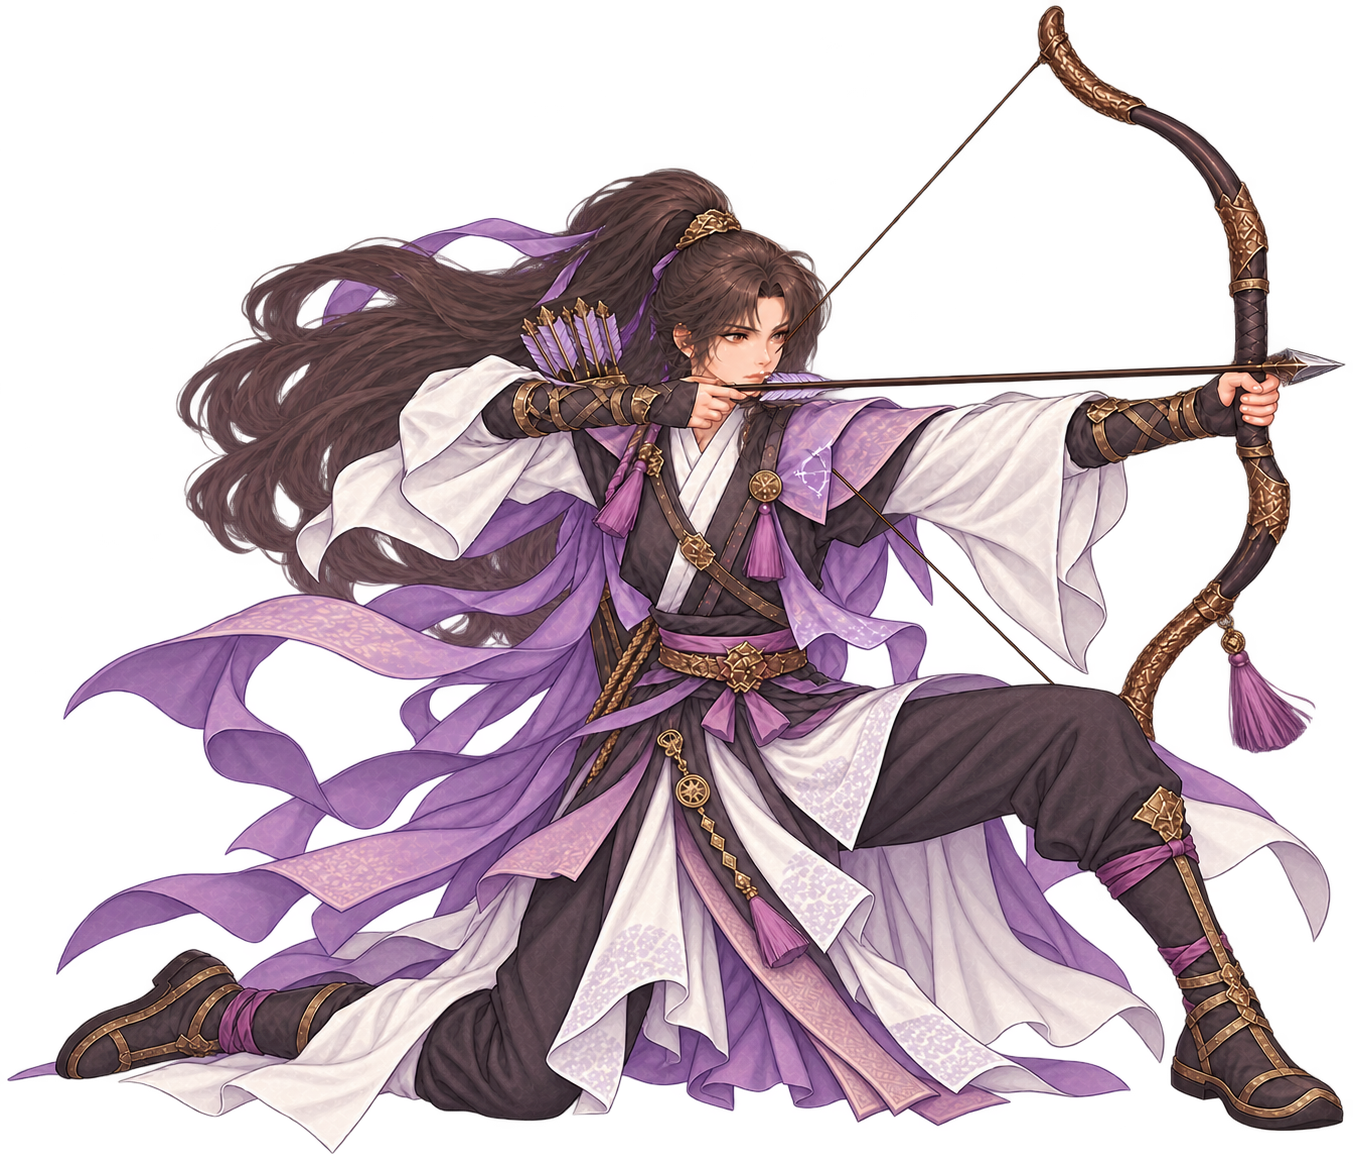
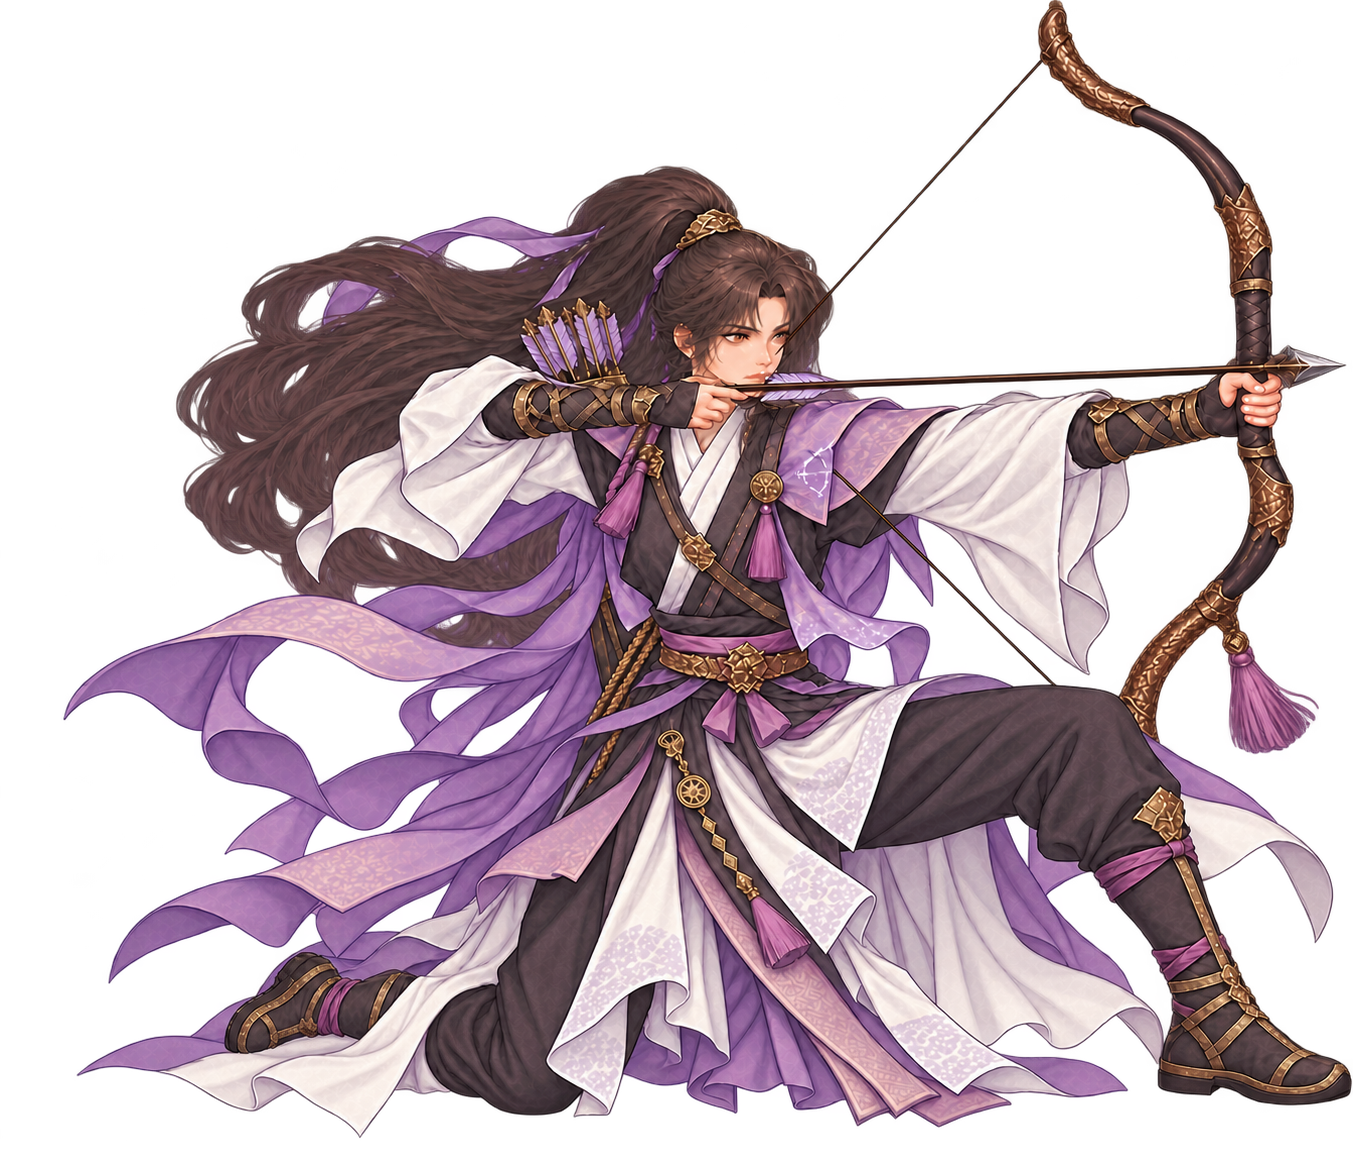
art: foreshorten Murong rear leg and align planted foot
Constraint: Preserve corrected pelvis and archer identity.

Confidence: high

diff --git a/docs/wardrobe.html b/docs/wardrobe.html
@@ -106,11 +106,11 @@
   document.querySelectorAll('[data-description]').forEach(button=>button.addEventListener('click',()=>{descriptionGender=button.dataset.description;choose(entries.find(entry=>entry.id===selectedId),false);}));
   async function load() {
     try {
-      const response=await fetch('assets/outfits-v5/manifest.json?v=20261027-murong-pelvis', {cache:'no-store'}); if(!response.ok)throw new Error('manifest');
+      const response=await fetch('assets/outfits-v5/manifest.json?v=20261027-murong-feet', {cache:'no-store'}); if(!response.ok)throw new Error('manifest');
       const male=await response.json();
       const valid=e=>e&&typeof e.id==='string'&&typeof e.name==='string'&&typeof e.file==='string'&&/^[a-z0-9_-]+\.png$/i.test(e.file);
       entries=(male.entries||[]).filter(valid); if(!entries.length)throw new Error('empty');
-      let female={entries:[]}; try {const result=await fetch('assets/outfits-female-v1/manifest.json?v=20261027-murong-pelvis', {cache:'no-store'});if(result.ok)female=await result.json();}catch {}
+      let female={entries:[]}; try {const result=await fetch('assets/outfits-female-v1/manifest.json?v=20261027-murong-feet', {cache:'no-store'});if(result.ok)female=await result.json();}catch {}
       const pending=(female.entries||[]).filter(valid);
       femaleEntries=new Map(pending.map(entry=>[entry.id,{...entry,ready:entry.status!=='pending'}]));
       $('completion').textContent='백의 + '+(entries.length-1)+'세력 · 남녀 의상';
